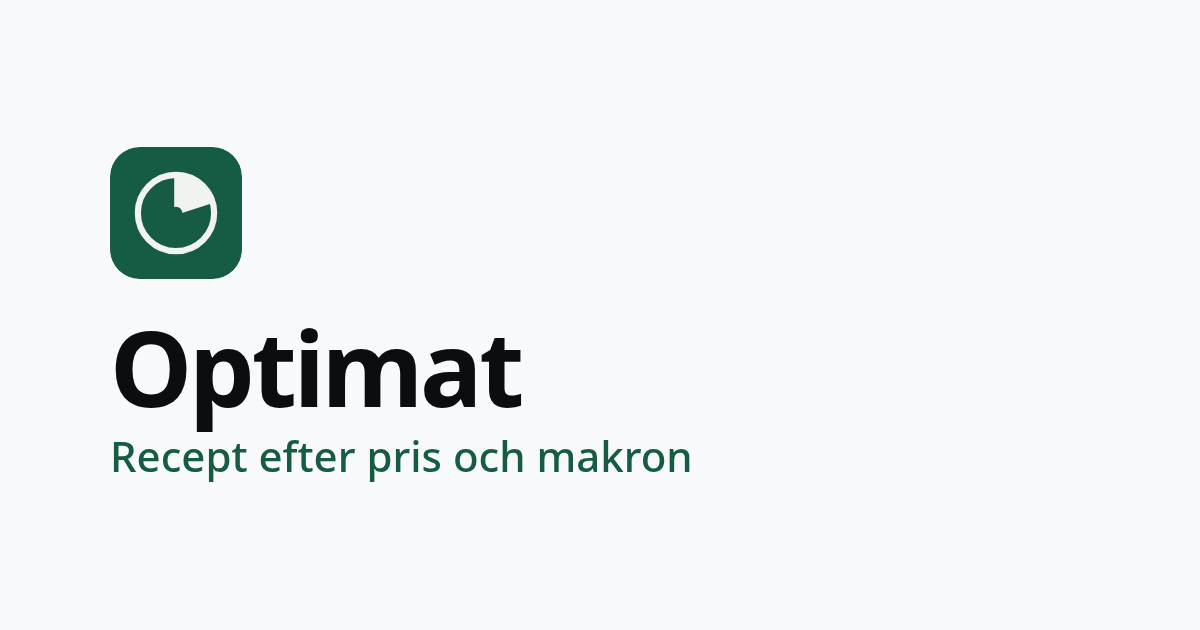
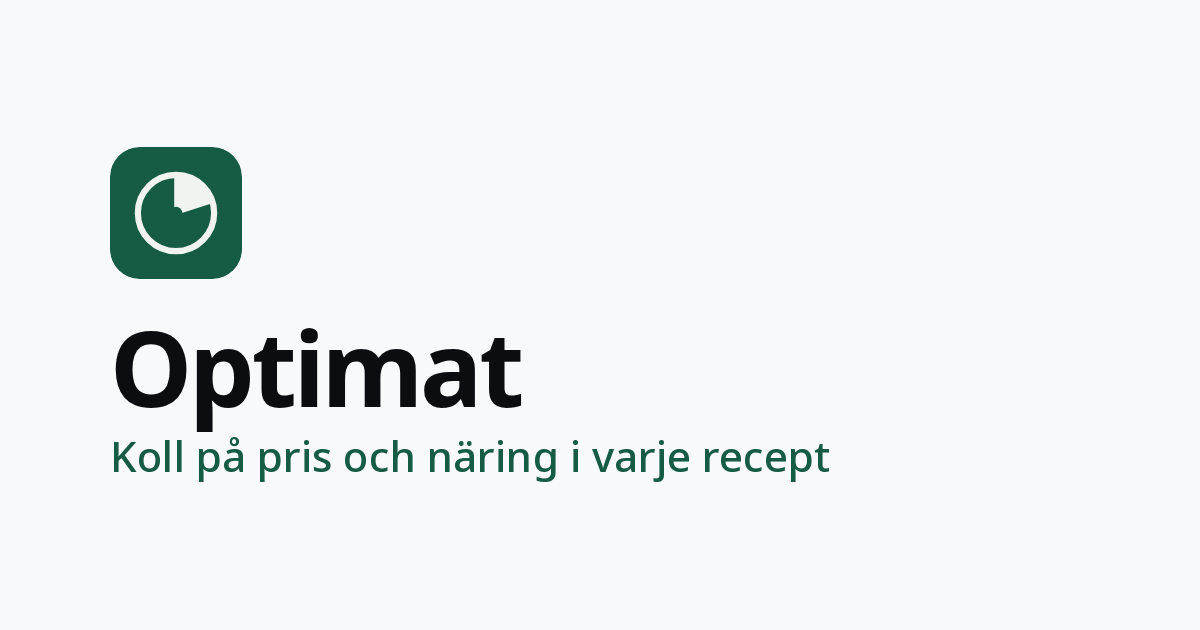
Replace makron with näring in the marketing copy.
Family testers did not understand makron. The headline, title, share text, and Open Graph image now say näring or näringsvärde.

Changed region(s): [[0.0925, 0.6937, 0.7092, 0.7841]]

diff --git a/index.html b/index.html
@@ -3,8 +3,8 @@
 <head>
   <meta charset="utf-8" />
   <meta name="viewport" content="width=device-width, initial-scale=1" />
-  <title>Optimat — Recept efter pris och makron</title>
-  <meta name="description" content="Optimat är en iPhone-app för recept, pris och makron. Dela som bild, PDF eller fil. Engångsköp, inget konto. Allt sparas på din iPhone." />
+  <title>Optimat — Koll på pris och näring i varje recept</title>
+  <meta name="description" content="Optimat är en iPhone-app för recept, pris och näring. Dela som bild, PDF eller fil. Engångsköp, inget konto. Allt sparas på din iPhone." />
   <meta name="theme-color" content="#F8F9FA" />
   <link rel="icon" href="assets/mark.svg" type="image/svg+xml" />
   <link rel="apple-touch-icon" href="assets/apple-touch-icon.png" />
@@ -15,18 +15,18 @@
   <meta property="og:type" content="website" />
   <meta property="og:locale" content="sv_SE" />
   <meta property="og:site_name" content="Optimat" />
-  <meta property="og:title" content="Optimat — Recept efter pris och makron" />
-  <meta property="og:description" content="Recept, pris och makron. Dela som bild, PDF eller fil. Engångsköp, inget konto. Allt sparas på din iPhone." />
+  <meta property="og:title" content="Optimat — Koll på pris och näring i varje recept" />
+  <meta property="og:description" content="Recept, pris och näring. Dela som bild, PDF eller fil. Engångsköp, inget konto. Allt sparas på din iPhone." />
   <meta property="og:url" content="https://oscaraandersson.github.io/optimat-app/" />
   <meta property="og:image" content="https://oscaraandersson.github.io/optimat-app/assets/og.png" />
   <meta property="og:image:width" content="1200" />
   <meta property="og:image:height" content="630" />
-  <meta property="og:image:alt" content="Optimats märke och texten Optimat – Recept efter pris och makron" />
+  <meta property="og:image:alt" content="Optimats märke och texten Optimat – Koll på pris och näring i varje recept" />
   <meta name="twitter:card" content="summary_large_image" />
-  <meta name="twitter:title" content="Optimat — Recept efter pris och makron" />
-  <meta name="twitter:description" content="Recept, pris och makron. Dela som bild, PDF eller fil. Engångsköp, inget konto. Allt sparas på din iPhone." />
+  <meta name="twitter:title" content="Optimat — Koll på pris och näring i varje recept" />
+  <meta name="twitter:description" content="Recept, pris och näring. Dela som bild, PDF eller fil. Engångsköp, inget konto. Allt sparas på din iPhone." />
   <meta name="twitter:image" content="https://oscaraandersson.github.io/optimat-app/assets/og.png" />
-  <script type="application/ld+json">{"@context":"https://schema.org","@type":"MobileApplication","name":"Optimat","operatingSystem":"iOS 15 eller senare","applicationCategory":"HealthApplication","url":"https://apps.apple.com/se/app/optimat/id6814617783","description":"Recept efter pris och makron. Dela som bild, PDF eller fil. Engångsköp, inget konto, data på telefonen."}</script>
+  <script type="application/ld+json">{"@context":"https://schema.org","@type":"MobileApplication","name":"Optimat","operatingSystem":"iOS 15 eller senare","applicationCategory":"HealthApplication","url":"https://apps.apple.com/se/app/optimat/id6814617783","description":"Koll på pris och näring i varje recept. Dela som bild, PDF eller fil. Engångsköp, inget konto, data på telefonen."}</script>
 </head><body>
   <a class="skip" href="#main">Hoppa till innehållet</a>
   <header class="site-header">
@@ -40,14 +40,14 @@
   <main id="main">
     <section class="wrap hero" aria-labelledby="h">
       <div class="hero-text">
-        <h1 id="h">Recept efter pris och makron</h1>
+        <h1 id="h">Koll på pris och näring i varje recept</h1>
         <p class="lede">Skanna varor, bygg recept och se vad varje portion kostar och ger i energi, protein, kolhydrater och fett.</p>
         <div class="hero-cta">
           <a class="btn " href="https://apps.apple.com/se/app/optimat/id6814617783"><svg viewBox="0 0 24 24" aria-hidden="true"><path d="M16.37 12.6c-.02-2.2 1.8-3.26 1.88-3.31-1.03-1.5-2.62-1.7-3.19-1.73-1.35-.14-2.65.8-3.34.8-.69 0-1.75-.78-2.88-.76-1.48.02-2.85.86-3.61 2.19-1.54 2.67-.4 6.63 1.1 8.8.73 1.06 1.6 2.25 2.75 2.2 1.1-.04 1.52-.71 2.85-.71 1.33 0 1.7.71 2.87.69 1.19-.02 1.94-1.08 2.66-2.15.84-1.23 1.19-2.42 1.2-2.48-.03-.01-2.3-.88-2.33-3.54zM14.2 6.1c.6-.74 1.01-1.76.9-2.78-.87.04-1.93.58-2.55 1.31-.56.65-1.05 1.69-.92 2.69.97.07 1.97-.49 2.57-1.22z"/></svg>Hämta i App Store</a>
           <p class="small">Ett engångsköp, ingen prenumeration. Ingen inloggning.<br>För iPhone, iOS 15 eller senare.</p>
         </div>
       </div>
-      <div class="hero-phone"><div class="phone lg"><picture><source srcset="assets/recipe.webp" type="image/webp"><img  src="assets/recipe.jpg" width="720" height="1561" alt="Optimat på en iPhone: ett recept, kvarg bowl med äpple, med pris per portion, kcal och makron." fetchpriority="high"></picture></div></div>
+      <div class="hero-phone"><div class="phone lg"><picture><source srcset="assets/recipe.webp" type="image/webp"><img  src="assets/recipe.jpg" width="720" height="1561" alt="Optimat på en iPhone: ett recept, kvarg bowl med äpple, med pris per portion, kcal och näringsvärde." fetchpriority="high"></picture></div></div>
     </section>
 
     <div class="wrap rows">
@@ -75,7 +75,7 @@
       </section>
       <section class="bformats" aria-label="Tre sätt att exportera">
         <ul class="bfmt-list">
-          <li><span class="pill">Bild</span><div><h3>Dela som bild</h3><p>Receptet blir en färdig bild med foto, ingredienser, instruktioner samt pris och makron per portion, märkt ”Skapad med Optimat”. Spara den som PNG eller JPEG, eller skicka den via valfri app på iPhone.</p></div></li>
+          <li><span class="pill">Bild</span><div><h3>Dela som bild</h3><p>Receptet blir en färdig bild med foto, ingredienser, instruktioner samt pris och näringsvärde per portion, märkt ”Skapad med Optimat”. Spara den som PNG eller JPEG, eller skicka den via valfri app på iPhone.</p></div></li>
           <li><span class="pill">PDF</span><div><h3>Spara som PDF</h3><p>Receptet som ett dokument i PDF-format. Spara det på din iPhone eller dela det vidare via valfri app.</p></div></li>
           <li><span class="pill">Fil</span><div><h3>Exportera som fil</h3><p>Receptet sparas som en fil som du själv förvarar eller skickar vidare, till exempel i ett meddelande. Filen kan också innehålla alla dina varor och recept och läsas in i Optimat på en annan enhet.</p></div></li>
         </ul>
